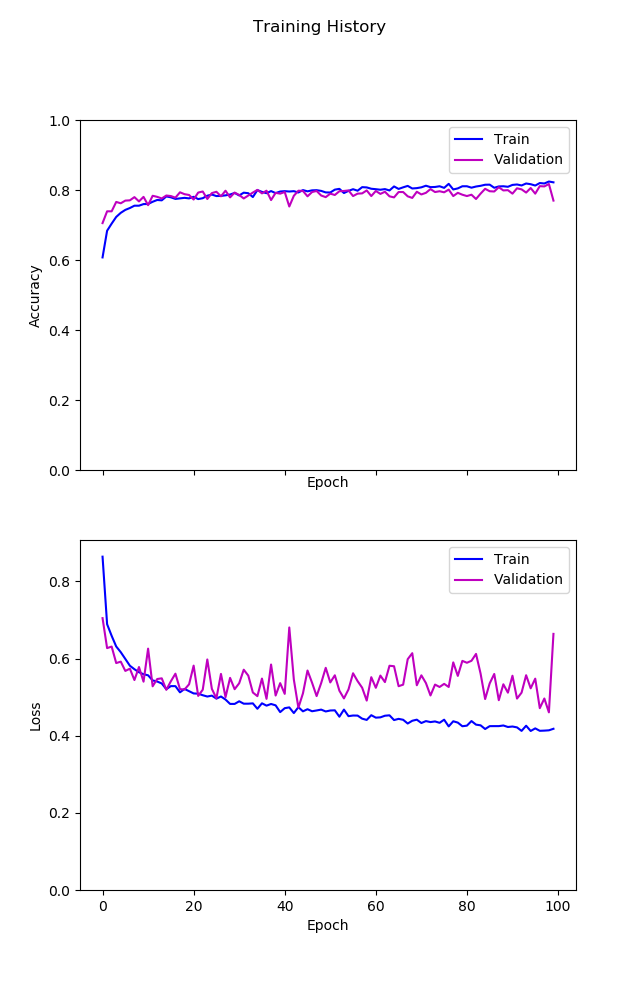
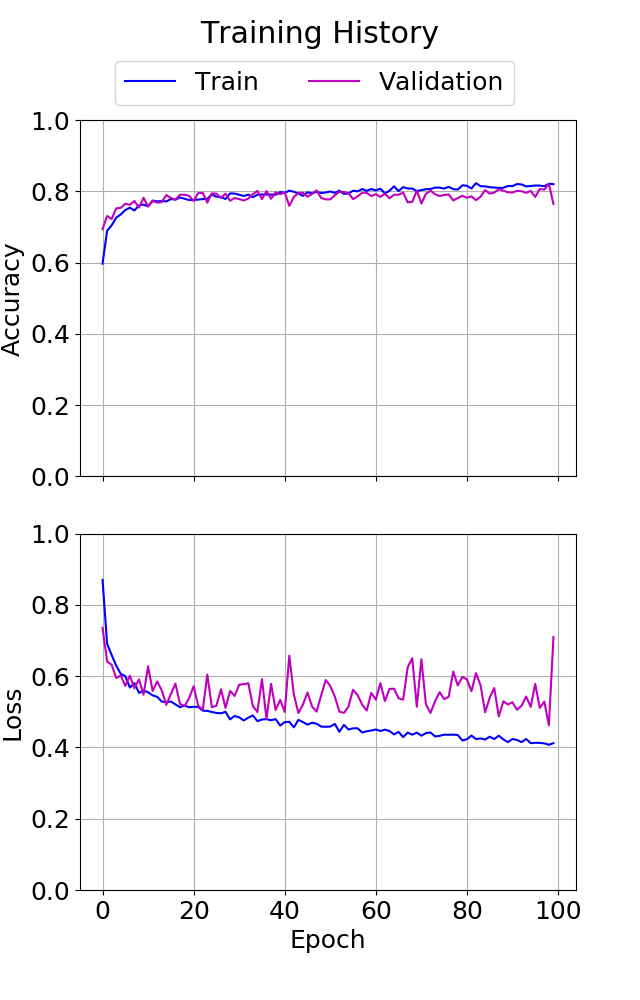
fit first 3 models

diff --git a/code/utils_training_history.py b/code/utils_training_history.py
@@ -1,4 +1,5 @@
 import matplotlib.pyplot as plt
+import numpy as np
 from matplotlib import rcParams
 
 
@@ -68,7 +69,7 @@ def plot_training_history(history):
     ax[1].plot(val_loss,
                lc['val'],
                label='Validation')
-    ax[1].set_ylim([0, 1])  # hard coding upper limit based on initial fits
+    ax[1].set_ylim([0, np.ceil(max(train_loss + val_loss))])
     ax[1].set_ylabel('Loss')
     ax[1].set_xlabel('Epoch')
     ax[1].grid()
